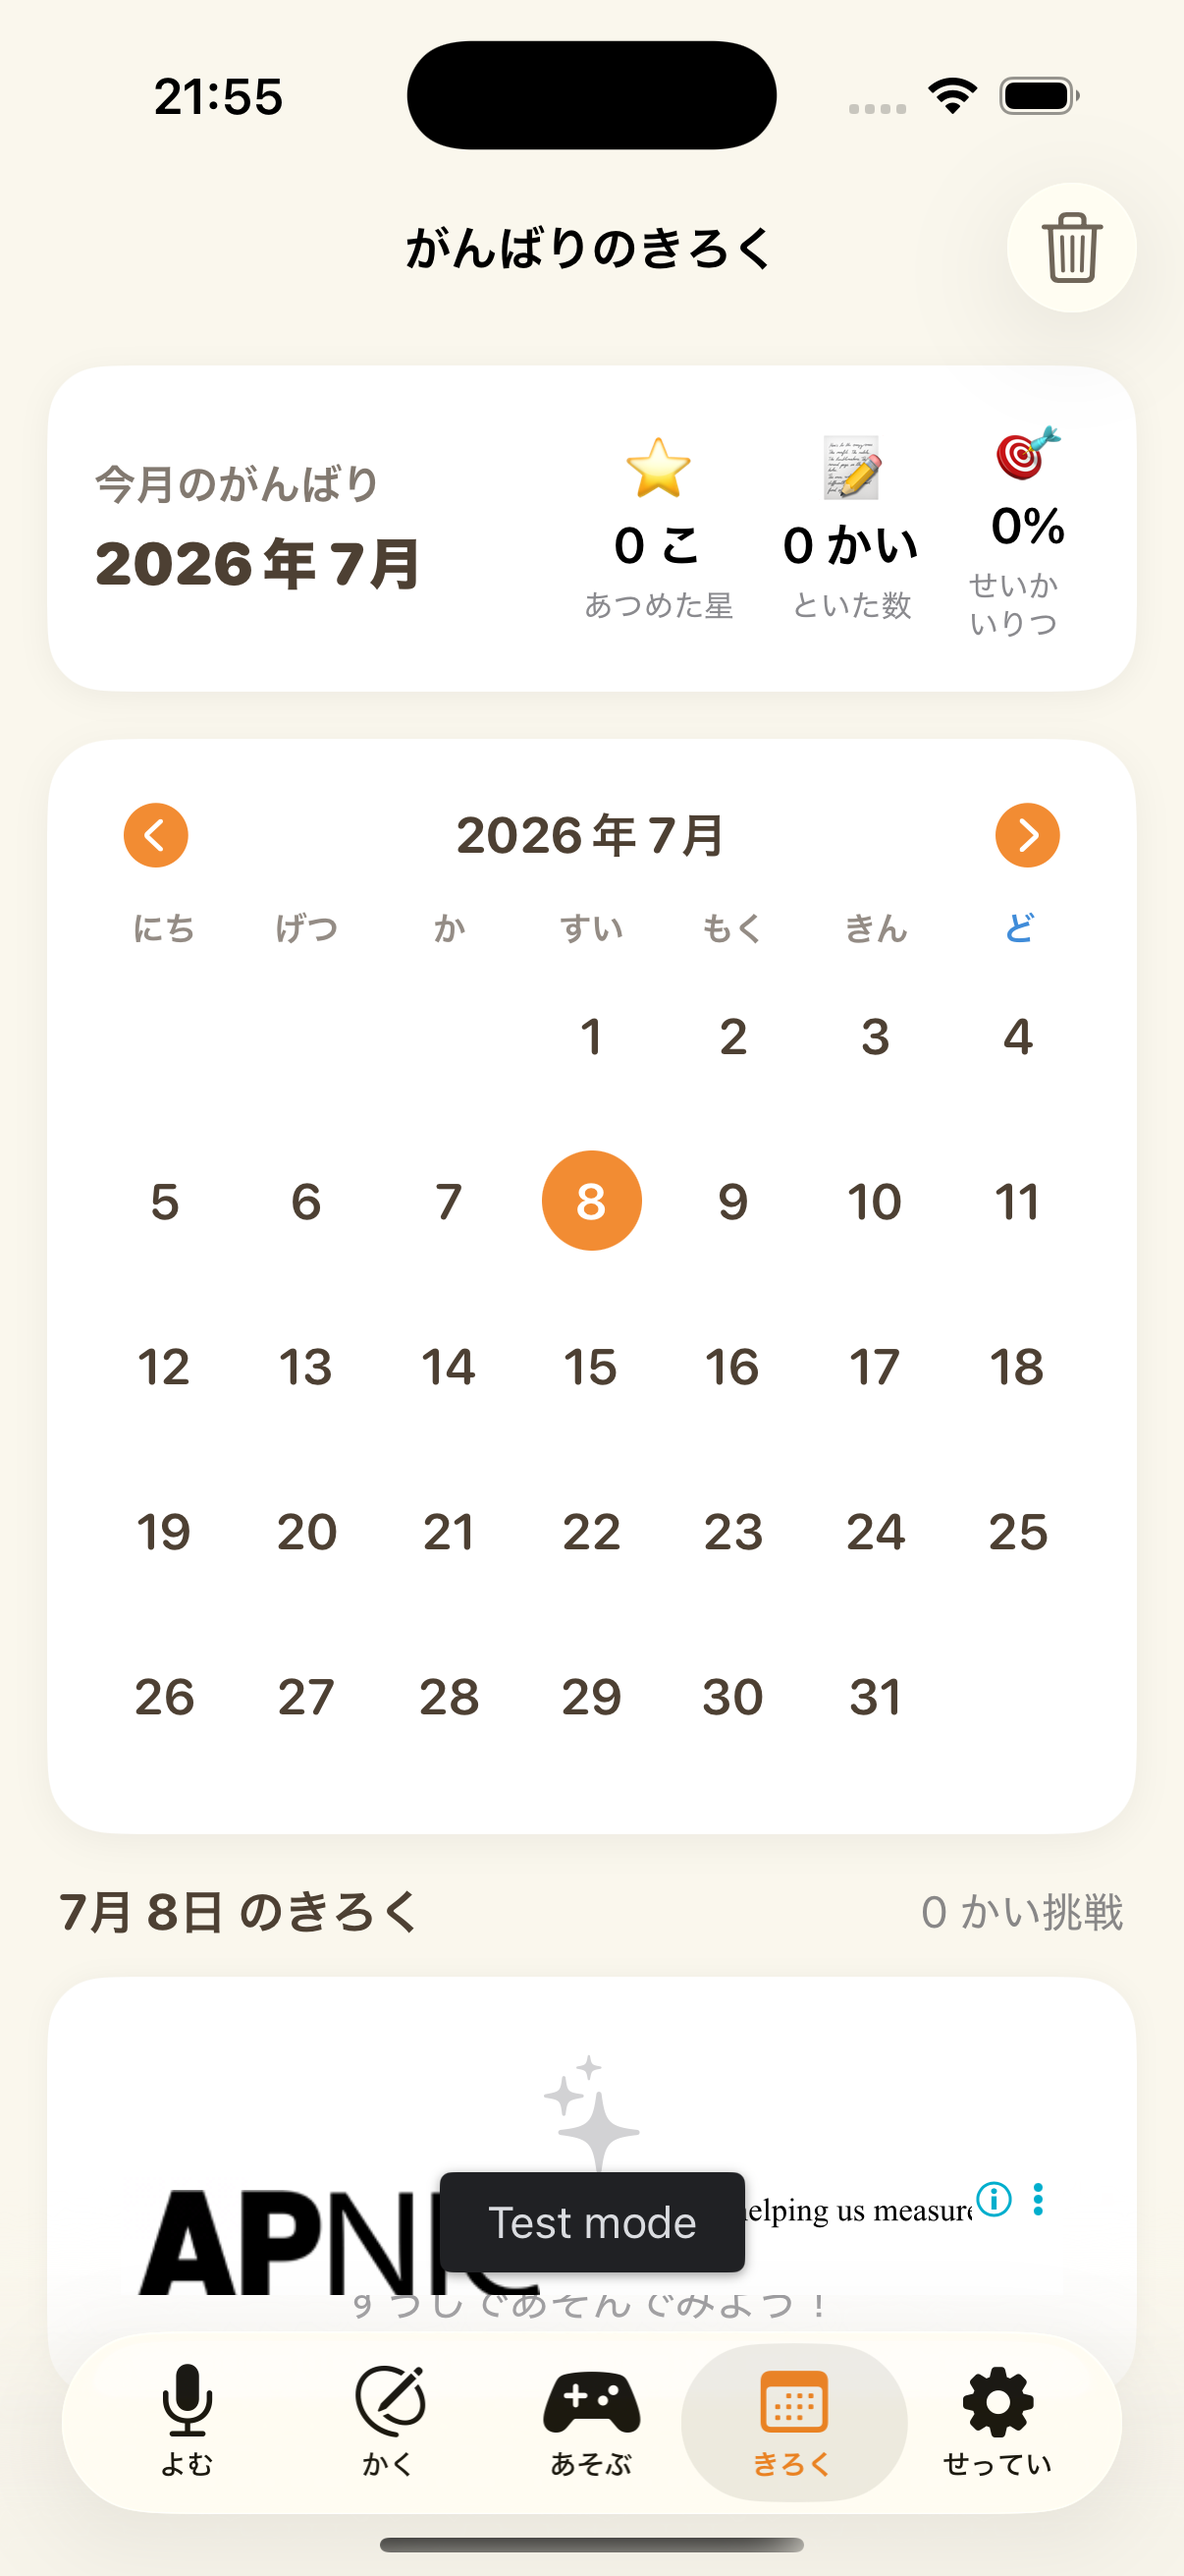
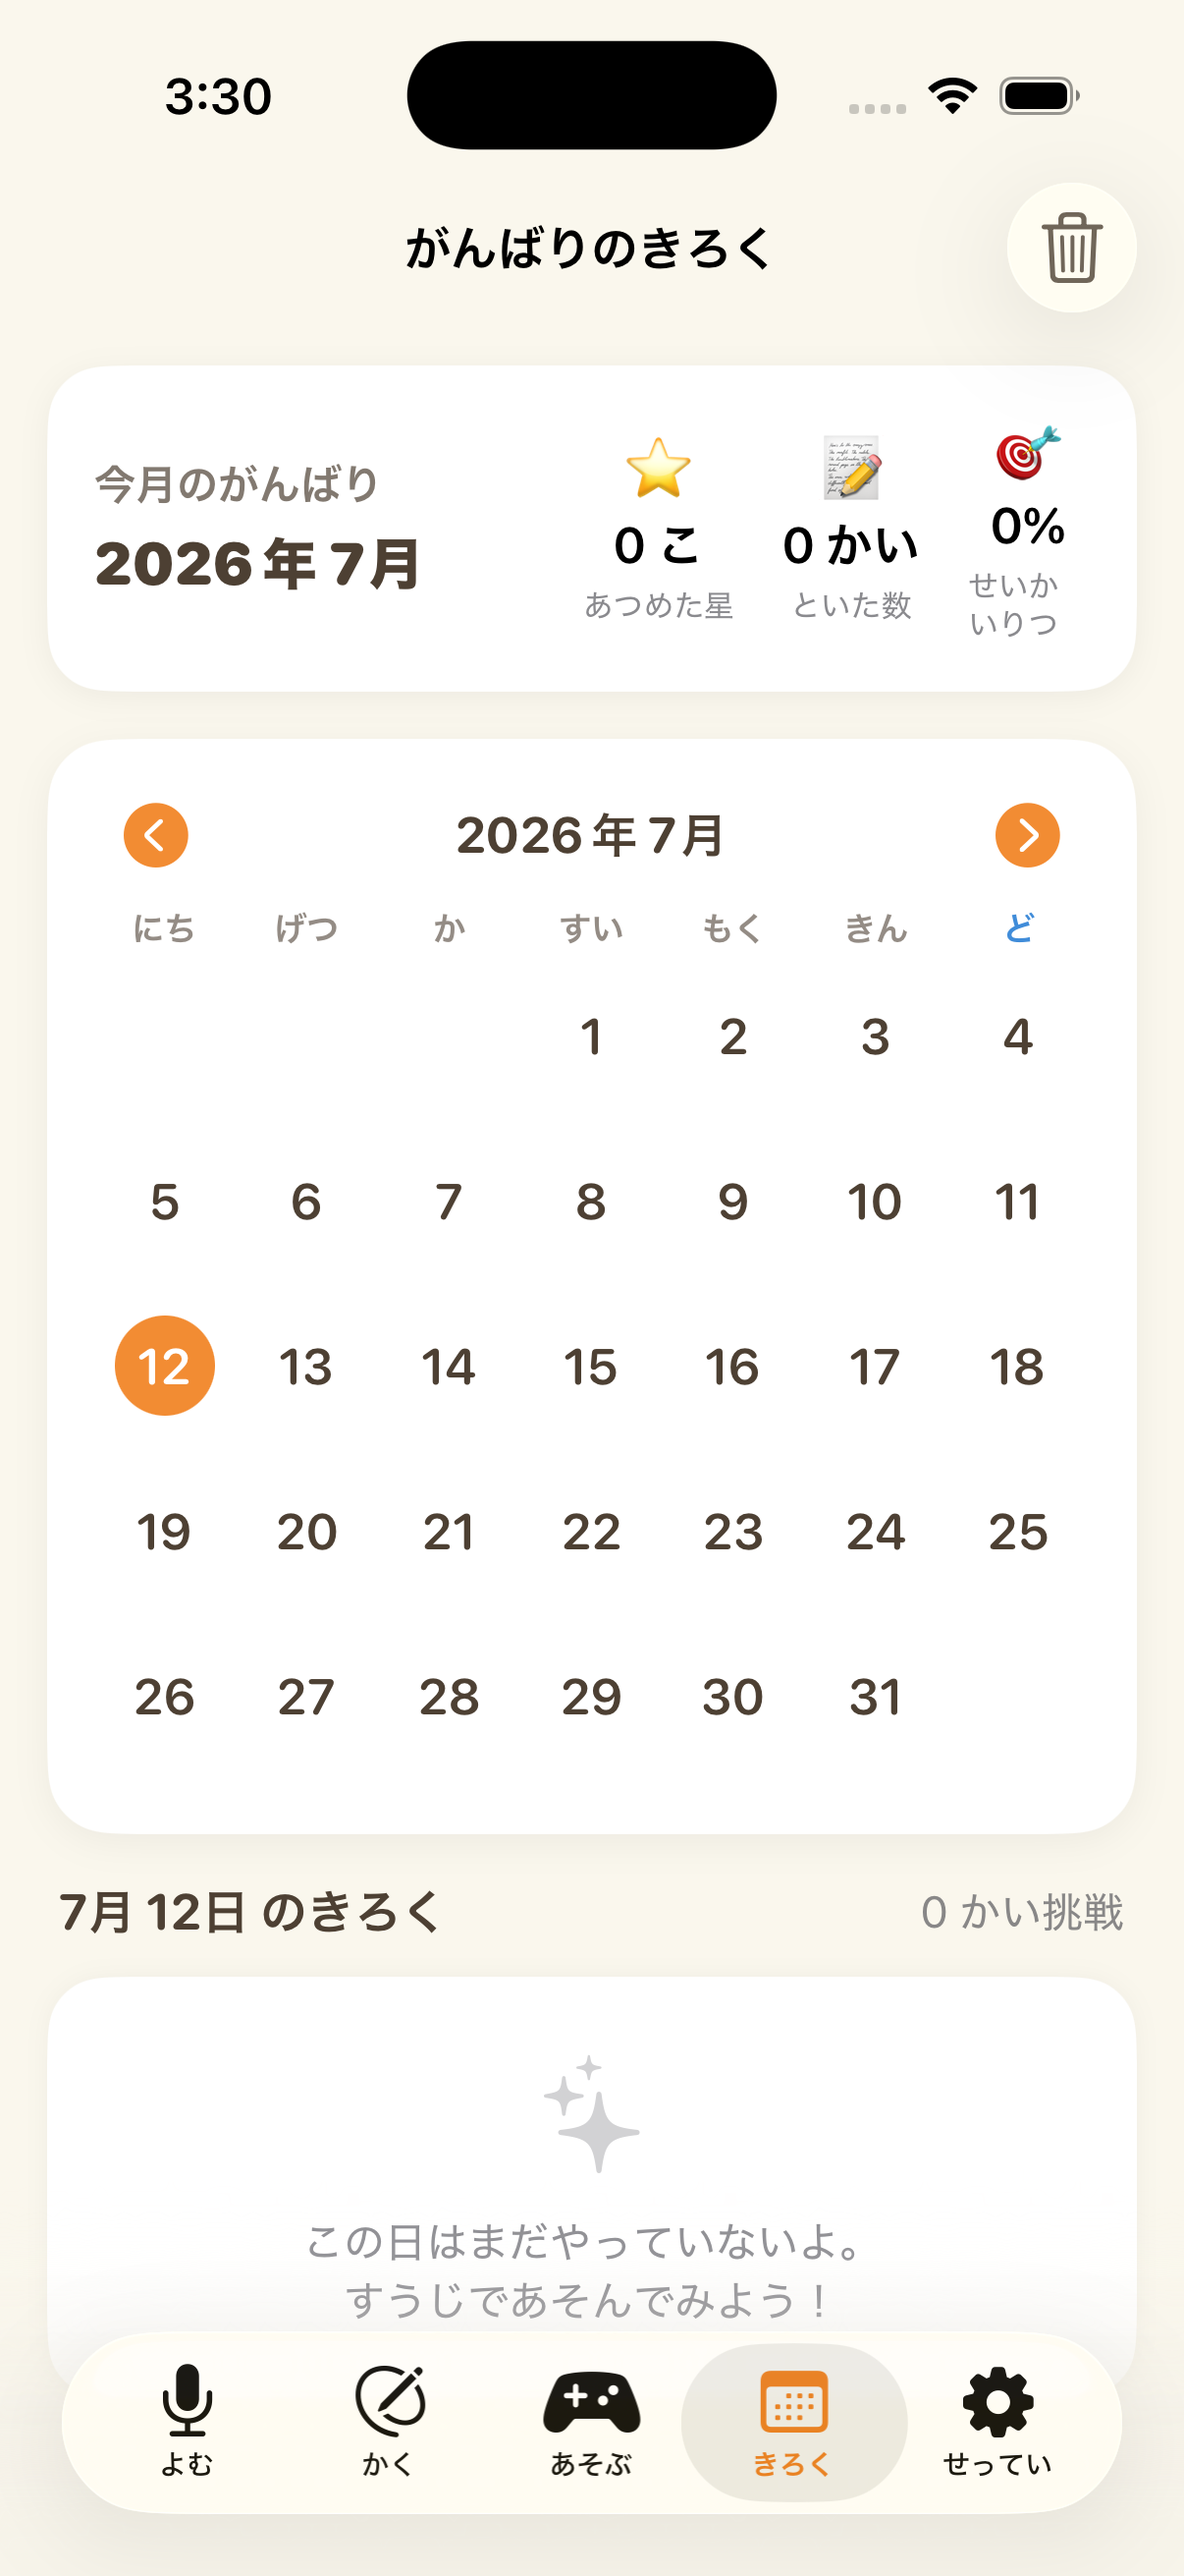
Update App Store screenshots for iPhone and iPad, disabling simulator ads for a clean look

diff --git a/docs/screenshot_generator_ipad.html b/docs/screenshot_generator_ipad.html
@@ -1,0 +1,250 @@
+<!DOCTYPE html>
+<html lang="ja">
+<head>
+    <meta charset="UTF-8">
+    <title>iPad App Store Screenshot Generator</title>
+    <link rel="preconnect" href="https://fonts.googleapis.com">
+    <link rel="preconnect" href="https://fonts.gstatic.com" crossorigin>
+    <link href="https://fonts.googleapis.com/css2?family=Outfit:wght@800&family=Zen+Kaku+Gothic+New:wght@700;900&display=swap" rel="stylesheet">
+    <style>
+        :root {
+            --ipad-w: 1450px;
+            --ipad-h: 1933px; /* 3:4に近い比率 */
+            --bezel: 36px;
+            --screen-r: 24px;
+        }
+
+        body, html {
+            margin: 0;
+            padding: 0;
+            width: 2048px;
+            height: 2732px;
+            overflow: hidden;
+            font-family: 'Zen Kaku Gothic New', sans-serif;
+            background: #110f1a;
+            color: #fff;
+        }
+
+        /* スクリーンショット全体のコンテナ (2048x2732px iPad Pro 12.9) */
+        .screenshot-container {
+            width: 2048px;
+            height: 2732px;
+            position: relative;
+            box-sizing: border-box;
+            display: flex;
+            flex-direction: column;
+            align-items: center;
+            justify-content: flex-start;
+            padding-top: 180px;
+            background: linear-gradient(180deg, #1f1a3a 0%, #0d0b18 100%);
+        }
+
+        /* 背景の装飾的な星や光 */
+        .bg-glow {
+            position: absolute;
+            width: 1400px;
+            height: 1400px;
+            border-radius: 50%;
+            background: radial-gradient(circle, rgba(242, 140, 56, 0.15) 0%, rgba(0,0,0,0) 70%);
+            top: 200px;
+            left: 324px;
+            pointer-events: none;
+            z-index: 1;
+        }
+
+        .bg-glow-2 {
+            position: absolute;
+            width: 1600px;
+            height: 1600px;
+            border-radius: 50%;
+            background: radial-gradient(circle, rgba(147, 51, 234, 0.12) 0%, rgba(0,0,0,0) 70%);
+            bottom: 100px;
+            left: 224px;
+            pointer-events: none;
+            z-index: 1;
+        }
+
+        /* 装飾的な星のグラフィック */
+        .star-decor {
+            position: absolute;
+            color: rgba(255, 255, 255, 0.15);
+            font-size: 60px;
+            z-index: 2;
+        }
+        
+        .star-1 { top: 150px; left: 250px; font-size: 80px; color: rgba(242, 140, 56, 0.4); }
+        .star-2 { top: 500px; right: 280px; font-size: 55px; color: rgba(255, 255, 255, 0.3); }
+        .star-3 { bottom: 1600px; left: 180px; font-size: 70px; color: rgba(147, 51, 234, 0.4); }
+        .star-4 { bottom: 800px; right: 200px; font-size: 50px; }
+
+        /* テキストエリア */
+        .header-section {
+            text-align: center;
+            z-index: 10;
+            width: 100%;
+            padding: 0 120px;
+            box-sizing: border-box;
+            margin-bottom: 90px;
+        }
+
+        .app-title-tag {
+            display: inline-flex;
+            align-items: center;
+            gap: 18px;
+            background: rgba(255, 255, 255, 0.08);
+            border: 1px solid rgba(255, 255, 255, 0.15);
+            padding: 14px 36px;
+            border-radius: 100px;
+            font-family: 'Outfit', sans-serif;
+            font-size: 42px;
+            font-weight: 800;
+            letter-spacing: 1px;
+            color: #f28c38;
+            margin-bottom: 40px;
+            box-shadow: 0 4px 20px rgba(0,0,0,0.2);
+        }
+
+        .app-title-tag img {
+            width: 64px;
+            height: 64px;
+            border-radius: 16px;
+        }
+
+        .main-headline {
+            font-size: 96px;
+            font-weight: 900;
+            line-height: 1.3;
+            margin: 0 0 24px 0;
+            letter-spacing: -2px;
+            background: linear-gradient(135deg, #ffffff 30%, #ffd4b2 100%);
+            -webkit-background-clip: text;
+            -webkit-text-fill-color: transparent;
+            text-shadow: 0 10px 30px rgba(0, 0, 0, 0.15);
+        }
+
+        .sub-copy {
+            font-size: 50px;
+            font-weight: 700;
+            color: #b3b0c5;
+            margin: 0;
+            line-height: 1.4;
+            max-width: 1500px;
+            margin-left: auto;
+            margin-right: auto;
+        }
+
+        /* iPad 端末モックアップ */
+        .ipad-frame {
+            position: relative;
+            width: var(--ipad-w);
+            height: var(--ipad-h);
+            background: #000;
+            border-radius: 60px;
+            box-shadow: 
+                0 0 0 8px #2e2a35, 
+                0 0 0 16px #1f1b25,
+                0 40px 120px rgba(0, 0, 0, 0.7);
+            z-index: 10;
+            overflow: hidden;
+            display: flex;
+            align-items: center;
+            justify-content: center;
+            box-sizing: border-box;
+            border: var(--bezel) solid #09080c;
+        }
+
+        /* 画面領域 */
+        .ipad-screen {
+            width: 100%;
+            height: 100%;
+            background: #fff;
+            border-radius: var(--screen-r);
+            overflow: hidden;
+            position: relative;
+        }
+
+        .ipad-screen img {
+            width: 100%;
+            height: 100%;
+            object-fit: cover;
+            display: block;
+        }
+    </style>
+</head>
+<body>
+
+    <div class="screenshot-container" id="container">
+        <!-- 背景装飾 -->
+        <div class="bg-glow"></div>
+        <div class="bg-glow-2"></div>
+        <div class="star-decor star-1">★</div>
+        <div class="star-decor star-2">✦</div>
+        <div class="star-decor star-3">★</div>
+        <div class="star-decor star-4">✦</div>
+
+        <!-- ヘッダーセクション -->
+        <div class="header-section">
+            <div class="app-title-tag">
+                <img src="assets/icon.png" alt="Icon">
+                NumberAdventure
+            </div>
+            <h1 class="main-headline" id="mainHeadline">すうじを声に出して読もう！</h1>
+            <p class="sub-copy" id="subCopy">AI音声認識がお子様の発音を優しく聞き取って判定</p>
+        </div>
+
+        <!-- スマホフレーム -->
+        <div class="ipad-frame">
+            <div class="ipad-screen">
+                <img src="assets/screenshot_ipad_read.png" id="screenshotImg" alt="App Screen">
+            </div>
+        </div>
+    </div>
+
+    <script>
+        // クエリパラメータの解析をして表示内容を変更する
+        const params = new URLSearchParams(window.location.search);
+        const page = params.get('page') || 'read';
+
+        const data = {
+            read: {
+                headline: 'すうじを声に出して読もう！',
+                sub: 'AI音声認識がお子様の発音を優しく聞き取って判定',
+                img: 'assets/screenshot_ipad_read.png',
+                gradient: 'linear-gradient(180deg, #2a1f4d 0%, #0c0a17 100%)',
+                glowColor: 'rgba(242, 140, 56, 0.15)'
+            },
+            write: {
+                headline: 'なぞってきれいに書く練習！',
+                sub: '手書き文字認識AIが正しいすうじの形をサポート',
+                img: 'assets/screenshot_ipad_write.png',
+                gradient: 'linear-gradient(180deg, #1b3d4f 0%, #07121b 100%)',
+                glowColor: 'rgba(56, 189, 242, 0.15)'
+            },
+            play: {
+                headline: 'あそんで覚える数のひみつ！',
+                sub: '点つなぎや足し算ブロックゲームで直感的に学ぶ',
+                img: 'assets/screenshot_ipad_play.png',
+                gradient: 'linear-gradient(180deg, #441f4d 0%, #170a1d 100%)',
+                glowColor: 'rgba(236, 72, 153, 0.15)'
+            },
+            history: {
+                headline: 'がんばった学習履歴をきろく！',
+                sub: 'カレンダーと星のご褒美で毎日のモチベーション持続',
+                img: 'assets/screenshot_ipad_history.png',
+                gradient: 'linear-gradient(180deg, #1d3c26 0%, #06140b 100%)',
+                glowColor: 'rgba(34, 197, 94, 0.15)'
+            }
+        };
+
+        const pageData = data[page] || data.read;
+        document.getElementById('mainHeadline').innerText = pageData.headline;
+        document.getElementById('subCopy').innerText = pageData.sub;
+        document.getElementById('screenshotImg').src = pageData.img;
+        
+        // 背景と光のカラー調整
+        const container = document.getElementById('container');
+        container.style.background = pageData.gradient;
+        document.querySelector('.bg-glow').style.background = `radial-gradient(circle, ${pageData.glowColor} 0%, rgba(0,0,0,0) 70%)`;
+    </script>
+</body>
+</html>
